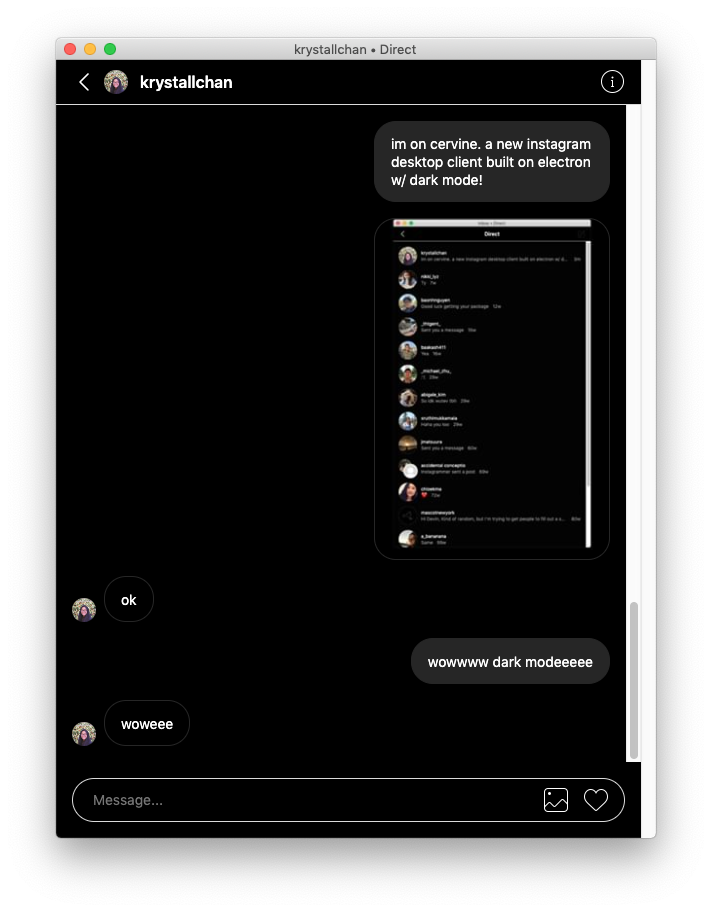
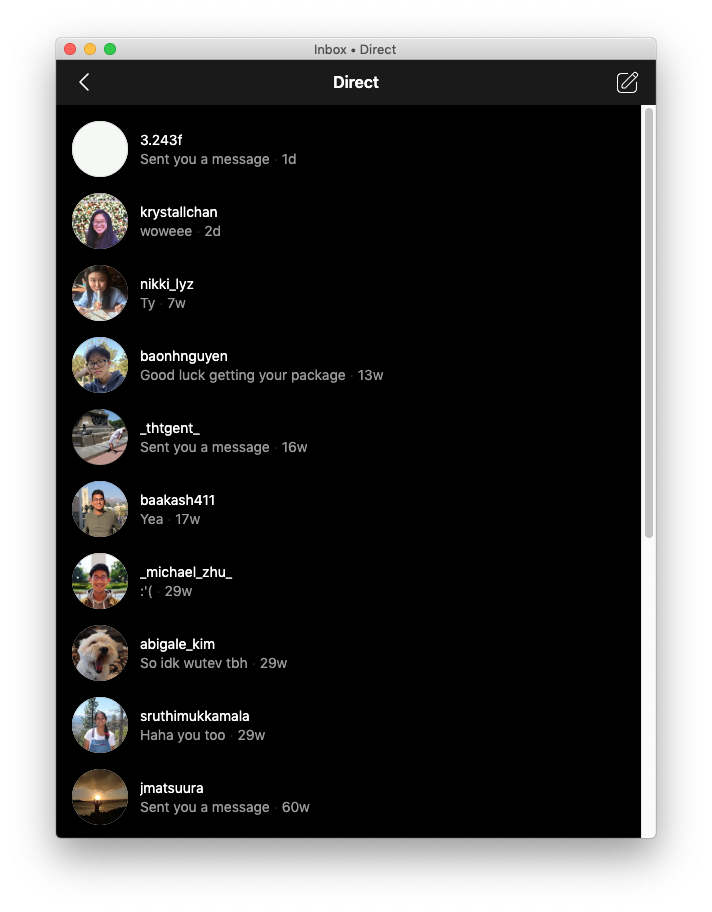
Update README.md

diff --git a/README.md b/README.md
@@ -1,26 +1,35 @@
 # Cervine
 
-> Instagram Direct desktop app
+> An Instagram desktop app featuring dark mode powered by [Electron](https://electronjs.org)
 
-Cervine is an unofficial Instagram Direct desktop app.
+Cervine is an unofficial Instagram desktop app for those of us who got tired of waiting for a desktop experience.
 
-![cervine screenshot](./media/screenshot.png)
-
-_currently in development_
+![cervine screenshot](./media/animate.gif)
 
 ## About
 
-Cervine is an unofficial Instagram Direct desktop application that supports a dark mode among other future features. Cervine was born out of my frustration of not being able to respond to people on Instagram quickly.
+Cervine is an unofficial Instagram desktop application that supports a dark mode among other future features. Cervine was born out of my frustration of not being able to respond to people on Instagram quickly.
 
 **Why**
 
 [IG:dm](https://igdm.me/) exists but uses Instagram's private API to receive and respond to messages. I found the application slow and somewhat buggy (the UI would sometimes bug out and you could send the wrong person a message).
 
-Cervine **does not use** Instagram's private API. Rather, it simply uses the Instagram website to send/receive messages. This makes it snappy and quick without having to create a brand new UI. To make dark mode, the application simply needs to inject some CSS and JS into the webpage.
+Cervine **does not use** Instagram's private API. Rather, it simply uses the Instagram website to send/receive messages. This makes it snappy and quick without having to create a brand new UI. To make dark mode, the application simply overrides Instagram's CSS styles.
+
+**Features**
+
+-   [x] Look at posts
+-   [x] Post pictures
+-   [x] Search for people
+-   [x] Follow people
+-   [x] View stories
+-   [x] Send/receive messages in real time
+-   [x] Cross-platform
+-   [x] **_d a r k m o d e_**
 
 ![dark mode](./media/dark.png)
 
-_Cervine offers a dark mode_
+_Cervine mimics the dark mode on Instagram's mobile app_
 
 ### Install
 
